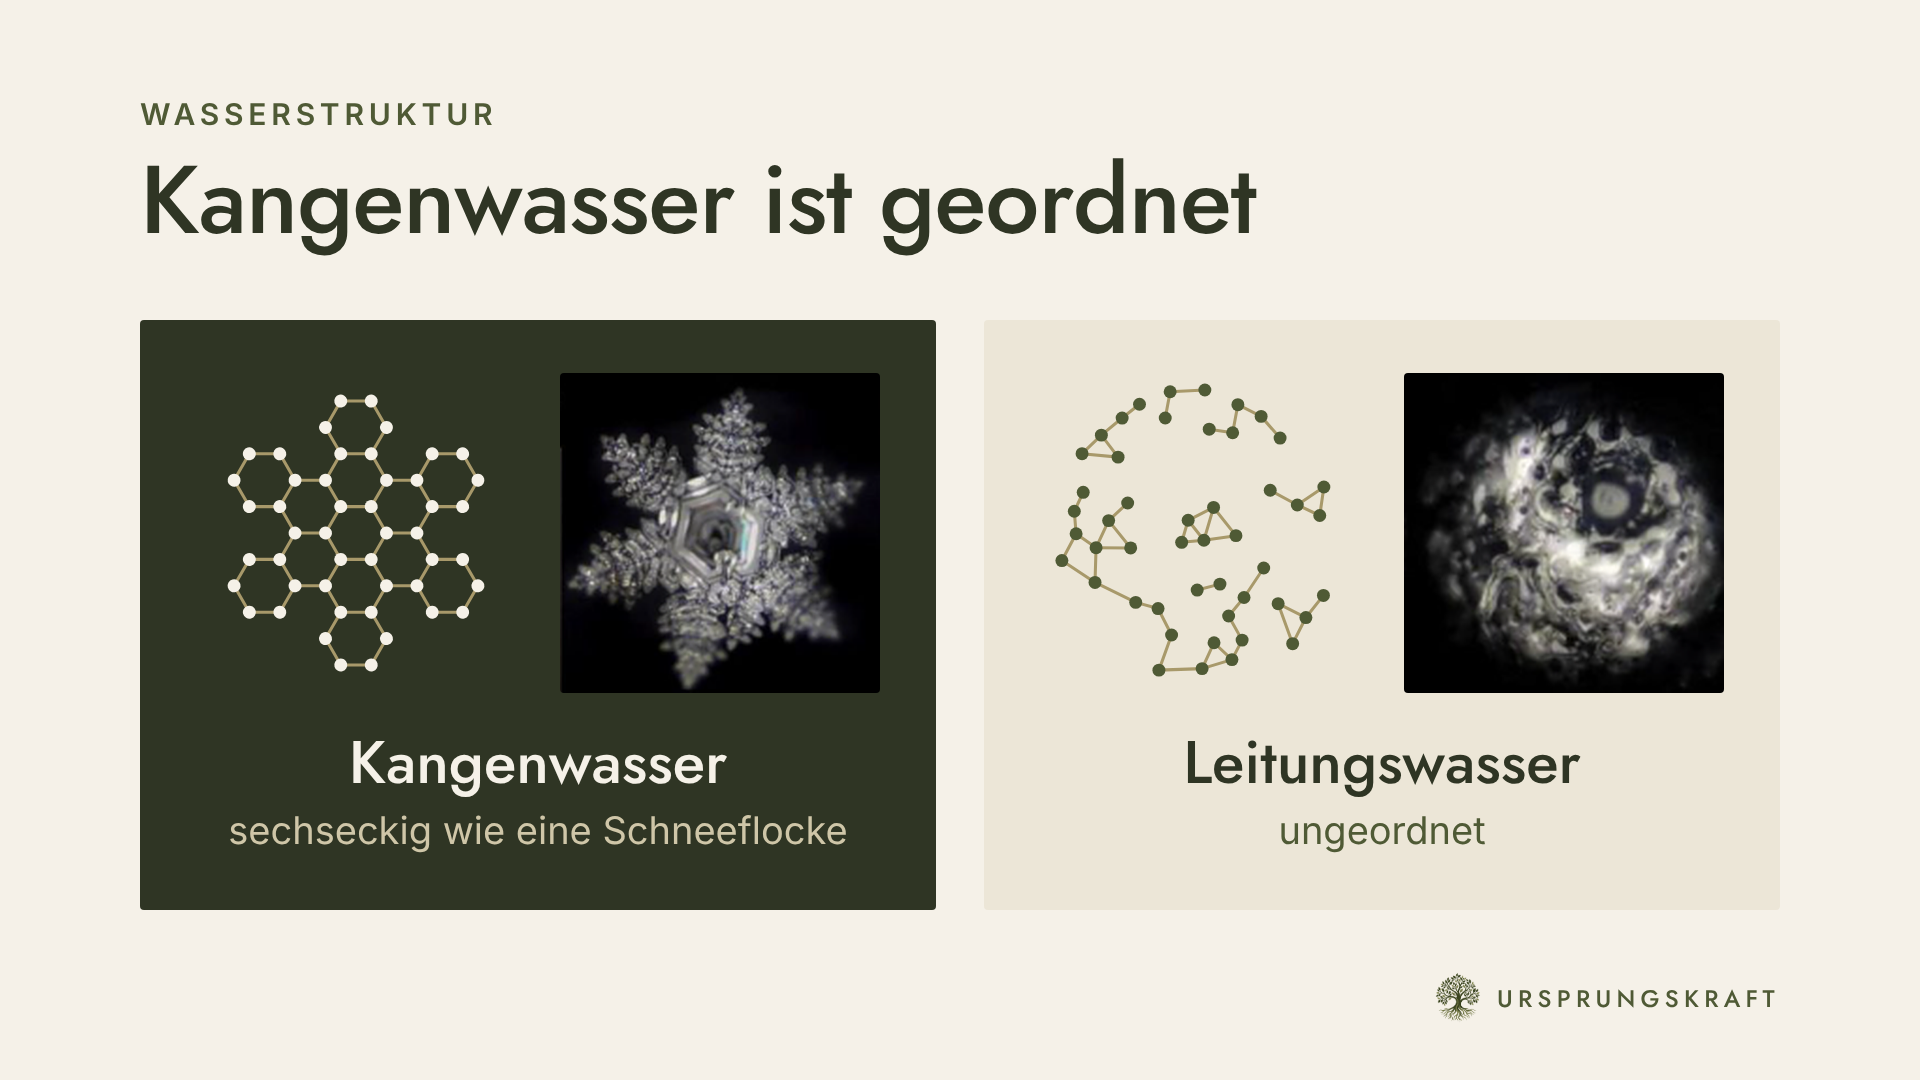
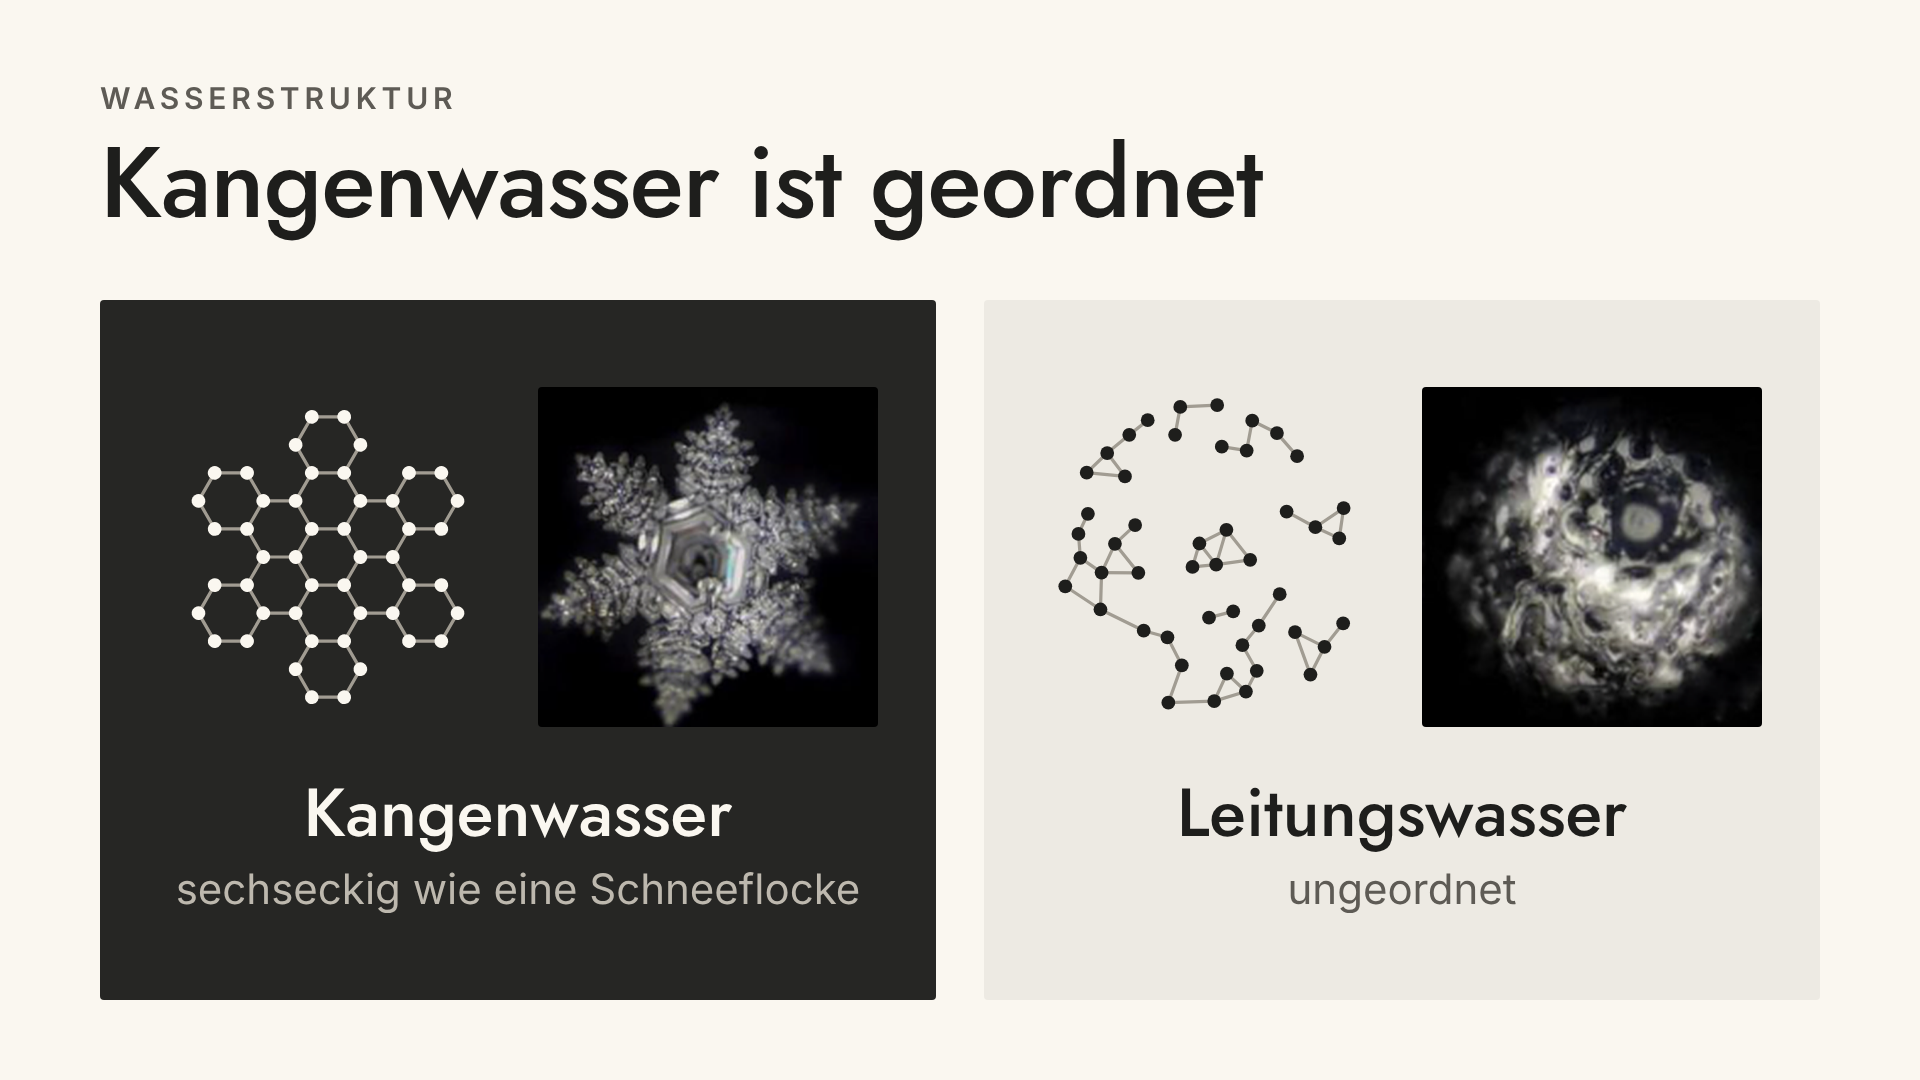
Video-Folien: neutrale Farben, ohne Marke, pH-Skala 4 bis 10 wie Original
Claude-Session: https://claude.ai/code/session_01CR4WzncWcQHYtr53SptXhG

diff --git a/video-folien-k8/folien.html b/video-folien-k8/folien.html
@@ -4,7 +4,7 @@
 <meta charset="utf-8">
 <title>Folien LeveLuk K8</title>
 <!--
-  Video-Folien Ursprungskraft, LeveLuk K8
+  Video-Folien LeveLuk K8
   Jede <section class="folie"> ist eine Folie in 1920 x 1080.
   Texte direkt hier ändern, dann neu rendern:  node render.js
   Dateiname der PNG steht im Attribut data-datei.
@@ -15,13 +15,17 @@
   @font-face { font-family: "Inter"; font-weight: 500; src: url("schriften/inter-latin-500-normal.woff2") format("woff2"); }
   @font-face { font-family: "Inter"; font-weight: 600; src: url("schriften/inter-latin-600-normal.woff2") format("woff2"); }
 
+  /* Neutrale Farben */
   :root {
-    --grund: #F5F1E8;
-    --flaeche: #ECE6D7;   /* etwas dunkler als Grund, für Felder */
-    --olive: #4F5A35;
-    --dunkel: #2F3524;
-    --khaki: #A8996A;
-    --linie: #D8D0BC;
+    --grund: #FAF7F0;     /* dezentes Creme, Hintergrund */
+    --flaeche: #EDEAE3;   /* helles Feld */
+    --dunkel: #262624;    /* dunkles Feld */
+    --text: #1E1E1C;      /* Haupttext */
+    --text2: #5E5B55;     /* Nebentext */
+    --text-hell: #FAF7F0; /* Text auf dunkel */
+    --text2-hell: #BDB8AE;/* Nebentext auf dunkel */
+    --grafik: #A19C92;    /* Linien in Zeichnungen */
+    --rand: 100px;        /* Seitenrand links und rechts */
   }
   * { box-sizing: border-box; margin: 0; padding: 0; }
   html, body { background: #8c8c8c; }
@@ -29,52 +33,46 @@
 
   .folie {
     position: relative; width: 1920px; height: 1080px; overflow: hidden; flex: none;
-    background: var(--grund); color: var(--dunkel);
+    background: var(--grund); color: var(--text);
     font-family: "Inter", sans-serif; font-weight: 400;
-    padding: 96px 140px 0;
+    padding: 80px var(--rand) 0;
   }
   .dachzeile {   /* Großbuchstaben bitte direkt so schreiben (wegen pH) */
-    font-family: "Inter"; font-weight: 600; font-size: 30px; letter-spacing: .16em; color: var(--olive);
+    font-family: "Inter"; font-weight: 600; font-size: 30px; letter-spacing: .16em; color: var(--text2);
   }
   h1 {
-    font-family: "Jost"; font-weight: 500; font-size: 96px; line-height: 1.05;
-    letter-spacing: -.01em; color: var(--dunkel); margin-top: 18px;
+    font-family: "Jost"; font-weight: 500; font-size: 100px; line-height: 1.05;
+    letter-spacing: -.01em; color: var(--text); margin-top: 14px;
   }
-  .marke {
-    position: absolute; right: 140px; bottom: 56px;
-    display: flex; align-items: center; gap: 16px;
-    font-family: "Jost"; font-weight: 500; font-size: 24px; letter-spacing: .22em; color: var(--olive);
-  }
-  .marke img { height: 52px; }
 
   /* ---------- Folie 1: Hexagonale Struktur ---------- */
-  .vergleich { position: absolute; left: 140px; right: 140px; top: 320px; bottom: 170px;
+  .vergleich { position: absolute; left: var(--rand); right: var(--rand); top: 300px; bottom: 80px;
     display: grid; grid-template-columns: 1fr 1fr; gap: 48px; }
   .feld { background: var(--flaeche); display: flex; flex-direction: column; align-items: center;
-    justify-content: center; padding: 36px 40px 40px; border-radius: 4px; }
-  .feld .bilder { display: flex; align-items: center; gap: 44px; }
-  .feld .bilder img { width: 320px; height: 320px; border-radius: 4px; display: block; }
-  .feld.hervor { background: var(--dunkel); color: var(--grund); }
-  .feld svg { width: 320px; height: 320px; flex: none; }
-  .feld .name { font-family: "Jost"; font-weight: 500; font-size: 60px; line-height: 1; margin-top: 40px; }
-  .feld .zusatz { font-size: 38px; margin-top: 14px; color: var(--olive); }
-  .feld.hervor .zusatz { color: #CFC6A8; }
+    justify-content: center; padding: 40px; border-radius: 4px; }
+  .feld.hervor { background: var(--dunkel); color: var(--text-hell); }
+  .feld .bilder { display: flex; align-items: center; gap: 40px; }
+  .feld svg { width: 340px; height: 340px; flex: none; }
+  .feld .bilder img { width: 340px; height: 340px; border-radius: 4px; display: block; }
+  .feld .name { font-family: "Jost"; font-weight: 500; font-size: 68px; line-height: 1; margin-top: 52px; }
+  .feld .zusatz { font-size: 42px; margin-top: 16px; color: var(--text2); }
+  .feld.hervor .zusatz { color: var(--text2-hell); }
 
   /* ---------- Folie 4: pH-Wert ---------- */
-  .ph-skala { position: absolute; left: 140px; right: 140px; top: 604px; height: 116px;
-    display: grid; grid-template-columns: repeat(15, 1fr); gap: 6px; }
+  .ph-skala { position: absolute; left: var(--rand); right: var(--rand); top: 600px; height: 150px;
+    display: grid; grid-template-columns: repeat(7, 1fr); gap: 10px; }
   .ph-skala div { display: flex; align-items: center; justify-content: center; border-radius: 4px;
-    font-family: "Jost"; font-weight: 500; font-size: 46px; }
-  .ph-ende { position: absolute; top: 742px; font-weight: 600; font-size: 30px; letter-spacing: .16em;
-    text-transform: uppercase; color: var(--olive); }
+    font-family: "Jost"; font-weight: 500; font-size: 64px; }
+  .ph-ende { position: absolute; top: 782px; font-weight: 600; font-size: 32px; letter-spacing: .16em; color: var(--text2); }
   .ph-marke { position: absolute; transform: translateX(-50%); text-align: center; white-space: nowrap; }
-  .ph-marke .wert { font-family: "Jost"; font-weight: 500; font-size: 58px; line-height: 1; color: var(--dunkel); }
-  .ph-marke .was { font-size: 34px; font-weight: 500; line-height: 1.15; margin-top: 8px; color: var(--olive); }
-  .ph-marke.oben { bottom: calc(1080px - 470px); }
-  .ph-marke.unten { top: 850px; }
-  .ph-marke.haupt { background: var(--dunkel); padding: 24px 34px 26px; border-radius: 4px; }
-  .ph-marke.haupt .wert { color: var(--grund); font-size: 80px; }
-  .ph-marke.haupt .was { color: #CFC6A8; font-size: 36px; }
+  .ph-marke .wert { font-family: "Jost"; font-weight: 500; font-size: 62px; line-height: 1; color: var(--text); }
+  .ph-marke .was { font-size: 36px; font-weight: 500; line-height: 1.15; margin-top: 8px; color: var(--text2); }
+  .ph-marke.oben { bottom: calc(1080px - 480px); }
+  .ph-marke.unten { top: 890px; }
+  .ph-marke.links { transform: none; text-align: left; }
+  .ph-marke.haupt { background: var(--dunkel); padding: 24px 36px 26px; border-radius: 4px; }
+  .ph-marke.haupt .wert { color: var(--text-hell); font-size: 84px; }
+  .ph-marke.haupt .was { color: var(--text2-hell); font-size: 38px; }
   .ph-linien { position: absolute; inset: 0; pointer-events: none; }
 </style>
 </head>
@@ -103,38 +101,37 @@
       <div class="zusatz">ungeordnet</div>
     </div>
   </div>
-
-  <div class="marke"><img src="bilder/logo-baum.png" alt="">URSPRUNGSKRAFT</div>
 </section>
 
 <!-- ===================== FOLIE 4 ===================== -->
-<!-- Marken: data-ph = Position auf der Skala, data-x = Mitte des Textes in Pixel (von links). -->
+<!-- Skala von 4 bis 10 wie die Farbtabelle beim Tropfentest.
+     Marken: data-ph = Position auf der Skala, data-x = Mitte des Textes in Pixel (von links). -->
 <section class="folie" data-datei="folie-04-ph-wert" id="ph">
-  <div class="dachzeile">pH-WERT VON 0 BIS 14</div>
+  <div class="dachzeile">pH-WERT</div>
   <h1>Kangenwasser ist basisch</h1>
 
   <svg class="ph-linien" viewBox="0 0 1920 1080"></svg>
 
   <!-- oben: Wasser -->
-  <div class="ph-marke oben" data-ph="4.5" data-x="380"><div class="wert">ca. 4,5</div><div class="was">Abwasser</div></div>
-  <div class="ph-marke oben" data-ph="5.5" data-x="670"><div class="wert">sauer</div><div class="was">Sprudelwasser</div></div>
-  <div class="ph-marke oben" data-ph="7.5" data-x="970" data-von="7" data-bis="8"><div class="wert">7 bis 8</div><div class="was">Leitungswasser</div></div>
-  <div class="ph-marke oben" data-ph="8.5" data-x="1265"><div class="wert">ca. 8,5</div><div class="was">basisches<br>Flaschenwasser</div></div>
-  <div class="ph-marke oben haupt" data-ph="9.5" data-x="1610"><div class="wert">9,5</div><div class="was">Kangenwasser</div></div>
+  <div class="ph-marke oben" data-ph="4.5" data-x="300"><div class="wert">ca. 4,5</div><div class="was">Abwasser</div></div>
+  <div class="ph-marke oben" data-ph="5.5" data-x="640"><div class="wert">sauer</div><div class="was">Sprudelwasser</div></div>
+  <div class="ph-marke oben" data-ph="7.5" data-x="990" data-von="7" data-bis="8"><div class="wert">7 bis 8</div><div class="was">Leitungswasser</div></div>
+  <div class="ph-marke oben" data-ph="8.5" data-x="1305"><div class="wert">ca. 8,5</div><div class="was">basisches<br>Flaschenwasser</div></div>
+  <div class="ph-marke oben haupt" data-ph="9.5" data-x="1650"><div class="wert">9,5</div><div class="was">Kangenwasser</div></div>
 
   <div class="ph-skala" id="ph-skala"></div>
-  <div class="ph-ende" style="left:140px">sauer</div>
-  <div class="ph-ende" style="left:960px; transform:translateX(-50%)">neutral</div>
-  <div class="ph-ende" style="right:140px">basisch</div>
+  <div class="ph-ende" style="left:var(--rand)">SAUER</div>
+  <div class="ph-ende" id="ph-neutral" style="transform:translateX(-50%)">NEUTRAL</div>
+  <div class="ph-ende" style="right:var(--rand)">BASISCH</div>
 
-  <!-- unten: Körper -->
-  <div class="ph-marke unten" data-ph="1.5" data-x="373"><div class="wert">ca. 1,5</div><div class="was">Magen</div></div>
-  <div class="ph-marke unten" data-ph="7.35" data-x="1500"><div class="wert">7,35</div><div class="was">Blut</div></div>
-
-  <div class="marke"><img src="bilder/logo-baum.png" alt="">URSPRUNGSKRAFT</div>
+  <!-- unten: Körper. Magen liegt links außerhalb der Skala (Pfeil nach links). -->
+  <div class="ph-marke unten links" data-ph="links" data-x="100"><div class="wert">← ca. 1,5</div><div class="was">Magen</div></div>
+  <div class="ph-marke unten" data-ph="7.35" data-x="1420"><div class="wert">7,35</div><div class="was">Blut</div></div>
 </section>
 
 <script>
+const css = name => getComputedStyle(document.documentElement).getPropertyValue(name).trim();
+
 /* ---------- Folie 1: Zeichnungen ---------- */
 (function () {
   const NS = "http://www.w3.org/2000/svg";
@@ -158,8 +155,8 @@
   });
   const g = el("g", { transform: "rotate(30)" }, svg);
   kanten.forEach(([a, b]) => el("line", { x1: a[0], y1: a[1], x2: b[0], y2: b[1],
-    stroke: "#A8996A", "stroke-width": 4, "stroke-linecap": "round" }, g));
-  punkte.forEach(p => el("circle", { cx: p[0], cy: p[1], r: 8.5, fill: "#F5F1E8" }, g));
+    stroke: css("--grafik"), "stroke-width": 4, "stroke-linecap": "round" }, g));
+  punkte.forEach(p => el("circle", { cx: p[0], cy: p[1], r: 8.5, fill: css("--text-hell") }, g));
 
   // Ungeordnet: gleiche Anzahl Teilchen, zufällig verteilt (fester Startwert, damit gleich bleibt)
   let seed = 7;
@@ -177,43 +174,50 @@
       .sort((a, b) => a[0] - b[0]).slice(0, zufall() < .5 ? 1 : 2);
     nah.forEach(([d, j]) => { const k = [i, j].sort().join("|");
       if (d < 60 && !gesehen.has(k)) { gesehen.add(k); const q = pts[j];
-        el("line", { x1: p[0], y1: p[1], x2: q[0], y2: q[1], stroke: "#A8996A", "stroke-width": 4, "stroke-linecap": "round" }, g2); } });
+        el("line", { x1: p[0], y1: p[1], x2: q[0], y2: q[1], stroke: css("--grafik"), "stroke-width": 4, "stroke-linecap": "round" }, g2); } });
   });
-  pts.forEach(p => el("circle", { cx: p[0], cy: p[1], r: 8.5, fill: "#4F5A35" }, g2));
+  pts.forEach(p => el("circle", { cx: p[0], cy: p[1], r: 8.5, fill: css("--text") }, g2));
 })();
 
 /* ---------- Folie 4: Skala und Hinweislinien ---------- */
 document.fonts.ready.then(function () {
   const folie = document.getElementById("ph"), skala = document.getElementById("ph-skala");
-  // Farben wie beim Tropfentest: 4 bis 10 aus der Original-Farbtabelle gemessen,
-  // 0 bis 3 und 11 bis 14 als Fortsetzung (rot bzw. dunkles Violett).
-  const FARBEN = ["#B5121B", "#D42420", "#E5481D", "#F27A12", "#FDAF05", "#F8C909", "#D5B60E",
-                  "#188647", "#092384", "#4958BF", "#431376", "#3A1068", "#310D5A", "#29094C", "#21073E"];
-  const HELLE_SCHRIFT = [0, 1, 2, 7, 8, 9, 10, 11, 12, 13, 14];
-  for (let n = 0; n <= 14; n++) {
-    const d = document.createElement("div"); d.textContent = n;
-    d.style.background = FARBEN[n];
-    d.style.color = HELLE_SCHRIFT.includes(n) ? "#FFFFFF" : "#2A2C22";
-    skala.appendChild(d);
-  }
-  const L = 140, B = 1920 - 280, zelle = (B - 6 * 14) / 15;
-  const xVon = ph => L + ph * (zelle + 6) + zelle / 2;
-  const top = 604, unten = 720;
-  const svg = folie.querySelector(".ph-linien"), NS = "http://www.w3.org/2000/svg";
-  const linie = (x1, y1, x2, y2, w) => { const l = document.createElementNS(NS, "line");
-    Object.entries({ x1, y1, x2, y2, stroke: "#2F3524", "stroke-width": w || 3, "stroke-linecap": "round" })
+  // Farben aus der Original-Farbtabelle (Tropfentest), gemessen
+  const VON = 4;
+  const FELDER = [
+    { wert: 4,  farbe: "#FDAF05", schrift: "#1E1E1C" },
+    { wert: 5,  farbe: "#F8C909", schrift: "#1E1E1C" },
+    { wert: 6,  farbe: "#D5B60E", schrift: "#1E1E1C" },
+    { wert: 7,  farbe: "#188647", schrift: "#FFFFFF" },
+    { wert: 8,  farbe: "#092384", schrift: "#FFFFFF" },
+    { wert: 9,  farbe: "#4958BF", schrift: "#FFFFFF" },
+    { wert: 10, farbe: "#431376", schrift: "#FFFFFF" },
+  ];
+  FELDER.forEach(f => { const d = document.createElement("div"); d.textContent = f.wert;
+    d.style.background = f.farbe; d.style.color = f.schrift; skala.appendChild(d); });
+
+  const rand = parseFloat(css("--rand")), luecke = 10;
+  const zelle = (1920 - 2 * rand - luecke * (FELDER.length - 1)) / FELDER.length;
+  const xVon = ph => rand + (ph - VON) * (zelle + luecke) + zelle / 2;
+  document.getElementById("ph-neutral").style.left = xVon(7) + "px";
+  const top = 600, unten = 750;
+  const svg = folie.querySelector(".ph-linien"), NS = "http://www.w3.org/2000/svg", farbe = css("--text");
+  const linie = (x1, y1, x2, y2) => { const l = document.createElementNS(NS, "line");
+    Object.entries({ x1, y1, x2, y2, stroke: farbe, "stroke-width": 3, "stroke-linecap": "round" })
       .forEach(([k, v]) => l.setAttribute(k, v)); svg.appendChild(l); };
   const punkt = (x, y) => { const c = document.createElementNS(NS, "circle");
-    Object.entries({ cx: x, cy: y, r: 9, fill: "#2F3524", stroke: "#F5F1E8", "stroke-width": 4 })
+    Object.entries({ cx: x, cy: y, r: 10, fill: farbe, stroke: css("--grund"), "stroke-width": 4 })
       .forEach(([k, v]) => c.setAttribute(k, v)); svg.appendChild(c); };
   folie.querySelectorAll(".ph-marke").forEach(m => {
-    const ph = parseFloat(m.dataset.ph), x = parseFloat(m.dataset.x);
+    const x = parseFloat(m.dataset.x);
     m.style.left = x + "px";
-    const ziel = xVon(ph), box = m.getBoundingClientRect(), fb = folie.getBoundingClientRect();
+    if (m.dataset.ph === "links") return;          // ohne Linie
+    const ph = parseFloat(m.dataset.ph), ziel = xVon(ph);
+    const box = m.getBoundingClientRect(), fb = folie.getBoundingClientRect();
     if (m.classList.contains("oben")) {
       const yText = box.bottom - fb.top + 14;
       if (m.dataset.von) {   // Bereich als Klammer
-        const a = xVon(+m.dataset.von), b = xVon(+m.dataset.bis), y = top - 20;
+        const a = xVon(+m.dataset.von), b = xVon(+m.dataset.bis), y = top - 22;
         linie(a, y, b, y); linie(a, y, a, top - 4); linie(b, y, b, top - 4);
         linie(ziel, y, x, yText);
       } else { linie(ziel, top - 4, x, yText); punkt(ziel, top); }
